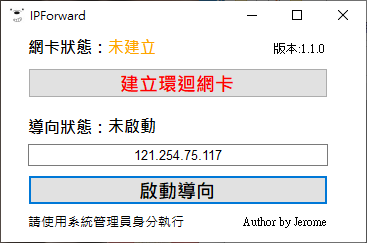
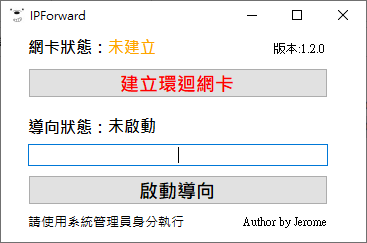
1.更新Git圖片 2.更新README

diff --git a/README.md b/README.md
@@ -3,6 +3,6 @@
 IPforward Windows APP by C#<br>
 這是一款基於C#開發的IP導向工具。<br>
 開發編譯器:Visual Studio 2019<br>
-`版本號:V1.1.0`
+`版本號:V1.2.0`
 # 注意事項
 此環回網卡安裝需使用`devcon.exe`請將編譯出的檔案路徑一同放入`devcon.exe`
